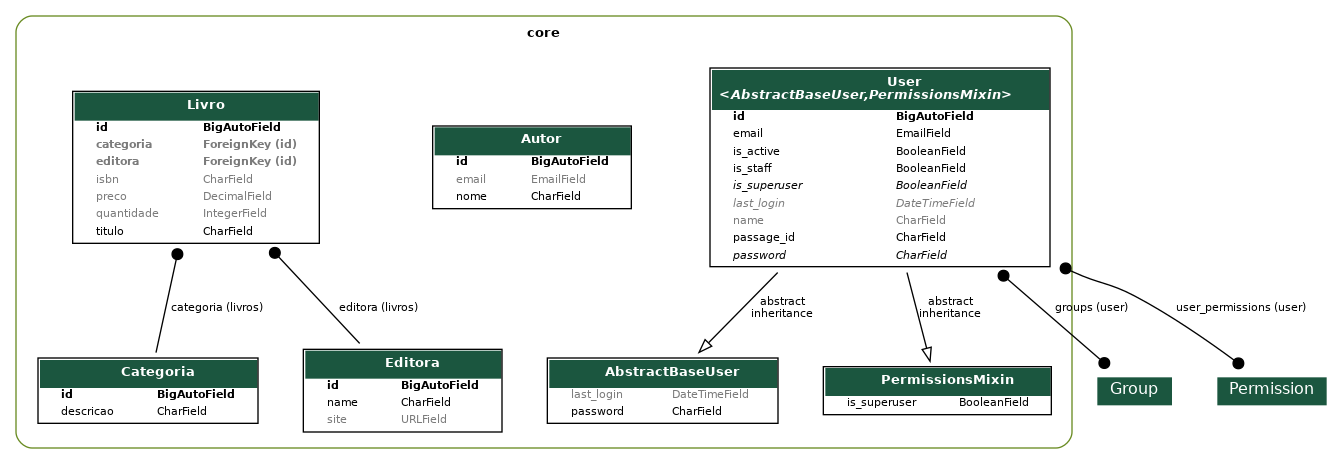
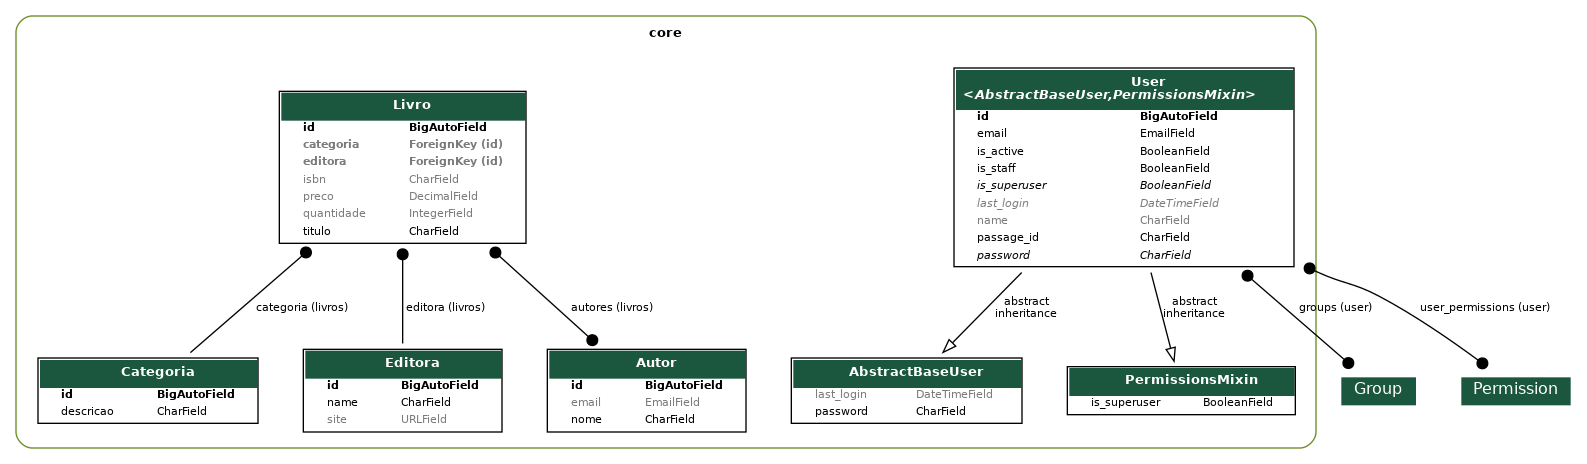
feat: banco de dados linkado ao supabase

diff --git a/core/migrations/0011_livro_autores.py b/core/migrations/0011_livro_autores.py
@@ -1,0 +1,18 @@
+# Generated by Django 5.2.1 on 2025-05-21 19:11
+
+from django.db import migrations, models
+
+
+class Migration(migrations.Migration):
+
+    dependencies = [
+        ('core', '0010_livro_categoria_livro_editora'),
+    ]
+
+    operations = [
+        migrations.AddField(
+            model_name='livro',
+            name='autores',
+            field=models.ManyToManyField(blank=True, related_name='livros', to='core.autor'),
+        ),
+    ]

diff --git a/core/views/livro.py b/core/views/livro.py
@@ -1,8 +1,6 @@
 from rest_framework.viewsets import ModelViewSet
-
 from core.models import Livro
-from core.serializers import LivroSerializer
-from .livro import LivroListSerializer, LivroRetrieveSerializer, LivroSerializer
+from core.serializers import LivroListSerializer, LivroRetrieveSerializer, LivroSerializer
 
 class LivroViewSet(ModelViewSet):
     queryset = Livro.objects.all()

diff --git a/core/serializers/__init__.py b/core/serializers/__init__.py
@@ -2,6 +2,5 @@ from .user import UserSerializer
 from .categoria import CategoriaSerializer
 from .editora import EditoraSerializer
 from .autor import AutorSerializer
-from .livro import LivroSerializer
-from .livro import LivroListRetrieveSerializer
+from .livro import LivroSerializer, LivroListSerializer,  LivroRetrieveSerializer
 

diff --git a/core/serializers/livro.py b/core/serializers/livro.py
@@ -1,10 +1,5 @@
 from rest_framework.serializers import ModelSerializer
 from core.models import Livro
-from core.serializers import (
-    LivroListSerializer,
-    LivroRetrieveSerializer,
-    LivroSerializer,
-)
 
 class LivroSerializer(ModelSerializer):
     class Meta:
